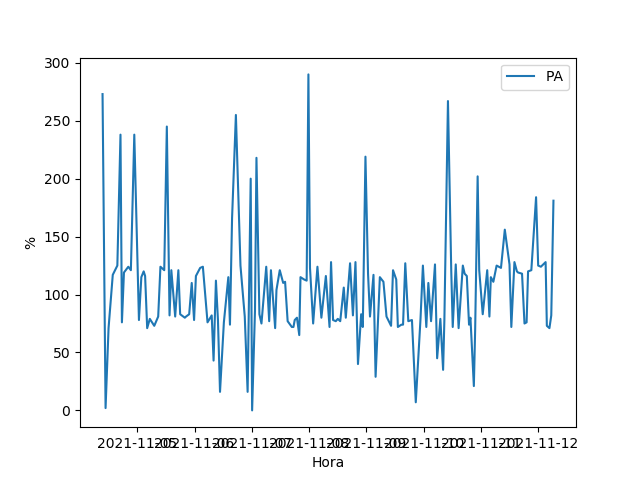
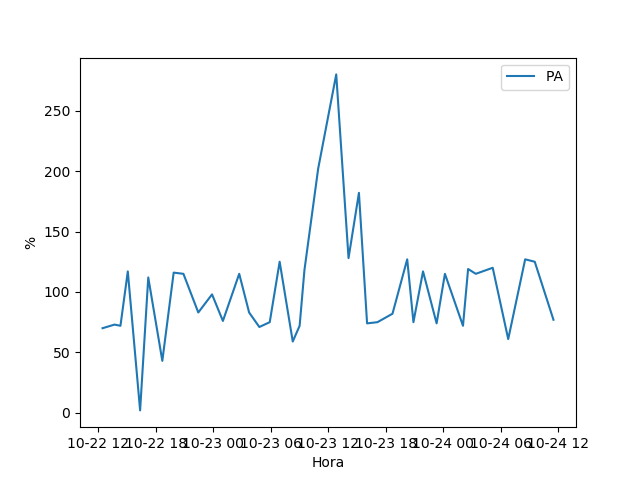
salvando dados da PA no banco de dados

diff --git a/utils/PA.py b/utils/PA.py
@@ -3,14 +3,24 @@ import random
 from datetime import datetime, timedelta, time
 import matplotlib.pyplot as plt
 import pandas as pd
+import mysql.connector
 
 def PA(qtValores, minMinutos, MaxMinutos):
+    database = mysql.connector.connect(host="localhost", user="root", password="", database = "iomt")
+    sql = "INSERT INTO dadoscoletados (usuario, valor1, valor2, dataHora, tipo) VALUES (%s, %s, %s, %s, %s)"
+
     normais = int(qtValores * 0.8)
     anormais = int(qtValores * 0.2)
 
     minutes = 0
     today = datetime.today()
-    date = datetime(today.year, today.month, today.day, 8, 30, 0)
+    mes = random.randint(1, 12)
+    dia = random.randint(1, 30)
+
+    if (mes == 2 and dia >= 28):
+        dia = 28
+
+    date = datetime(today.year, mes, dia, random.randint(6, 10), random.randint(0, 59), 0)
 
     # Gerando os valores normais
     sistolicaNormal = np.random.randint(110, 129, normais)
@@ -35,10 +45,19 @@ def PA(qtValores, minMinutos, MaxMinutos):
     dataPlot = []
     for i in range(len(valores)):
         valores[i] = round(valores[i], 2)
-        minutes +=random.randint(minMinutos, MaxMinutos)
+        minutes += random.randint(minMinutos, MaxMinutos)
         delta = timedelta(minutes=minutes)
         dateTime = (date + delta)
         dataPlot.append(tuple([dateTime, valores[i]]))
+
+        cursor = database.cursor()
+        val = (2, int(valores[i]), None, dateTime, "PA")
+        cursor.execute(sql, val)
+
+        database.commit()
+        cursor.close()
+
+    database.close()
 
     df = pd.DataFrame(dataPlot, columns=['Data', 'PA'])
     plt.plot(df['Data'], df['PA'])
